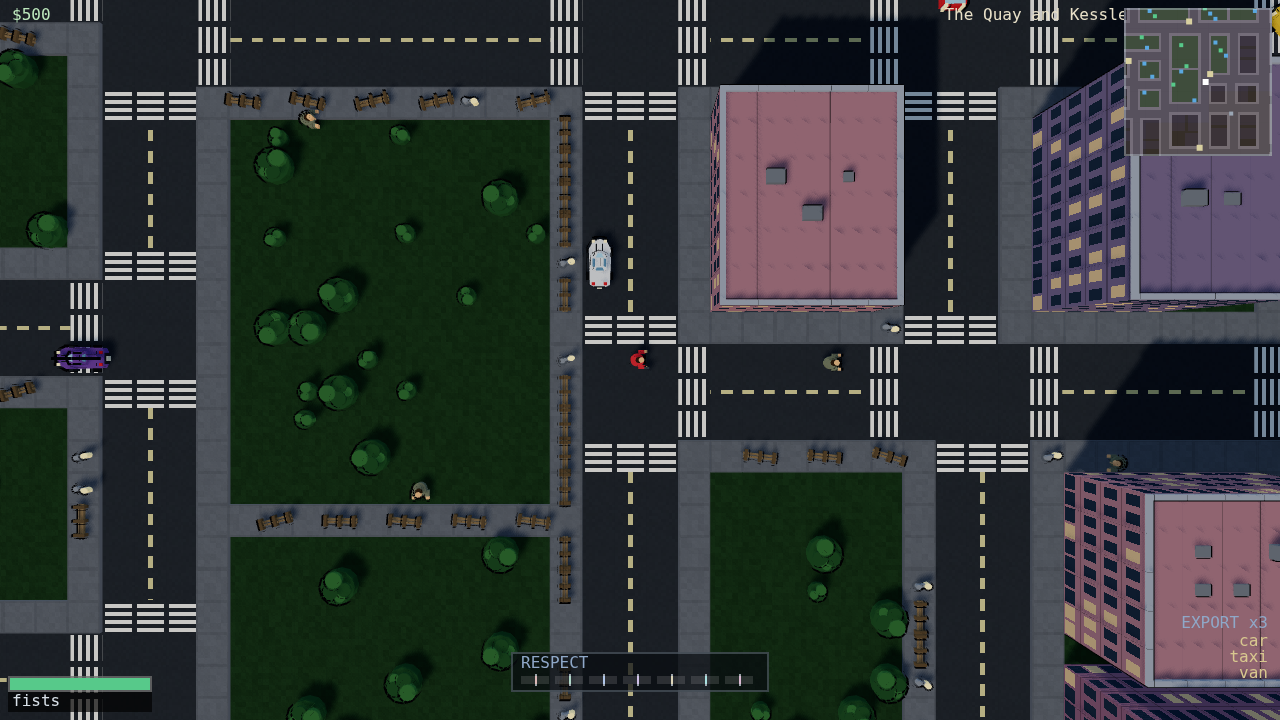
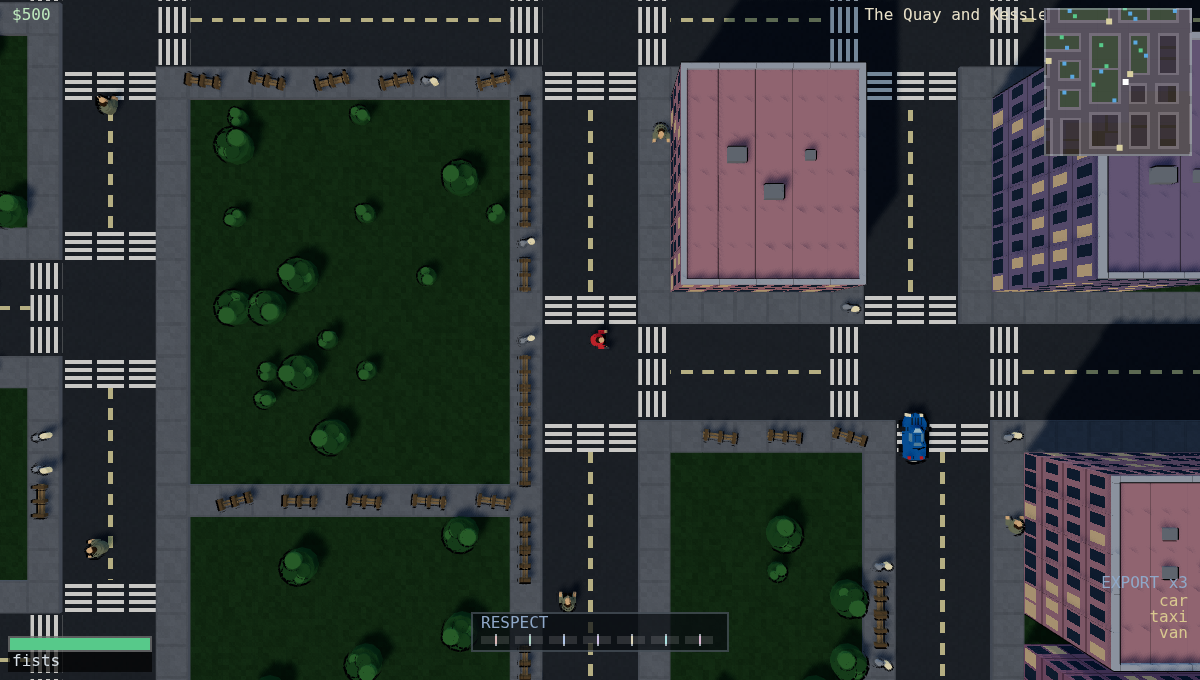
Make 3D the default renderer
`?render=2d` is the way back to Canvas 2D; everything else about the client
is shared between the two, so only the world layer differs.

The caveat I raised before flipping this stands, and 3D.md now records it as
an open risk rather than a resolved one: the frame cost of the 3D path has
never been measured on real hardware. Every figure quoted for it comes off a
box with no GPU, where WebGL runs on SwiftShader at about one frame a second.
Draw counts and triangle counts travel between machines; frame rate does not.
The first person to open this on a GPU learns something nobody here knows.

Two things make that recoverable rather than reckless. The 2D path is
untouched and measured — 60 fps, p50 4.5ms, verified alongside this change —
so the fallback is real. And the swap is one line, so reverting costs nothing.

One cost that IS measured: the main bundle goes 179 KB -> 799 KB (219 KB
gzipped), because three.js now lands in the default entry instead of a page
nobody loaded by accident. A dynamic import would recover that if first paint
starts to matter.

Gates: 715 tests green, 6 bots 0 desyncs, host parity exact on seeds 7 and 42,
client typechecks, production build clean.

Claude-Session: https://claude.ai/code/session_014F4R93RD4teY4z5PdxMpqN

diff --git a/client/src/main.ts b/client/src/main.ts
@@ -152,14 +152,20 @@ function playerName(): string {
 }
 
 /**
- * `?render=3d` draws the world with three.js instead of Canvas 2D.
+ * Which renderer draws the world. **3D is the default**; `?render=2d` is the
+ * way back to Canvas 2D.
  *
- * The HUD, the minimap, the overlay, input and — crucially — client-side
- * prediction all stay exactly as they are: only the world layer swaps. That
- * is the whole reason to wire it in here rather than leave it on its own page,
- * where it had none of them.
+ * Only the world layer swaps either way. The HUD, the minimap, the debug
+ * overlay, input, audio and — crucially — client-side prediction with
+ * rewind/replay reconciliation are shared, which is why this lives in
+ * `main.ts` rather than on a page of its own.
+ *
+ * The 2D path is not deprecated and is not going away. It is the measured
+ * one — 60 fps, p50 4.5 ms — it needs no GPU, and it remains the fallback for
+ * a machine that cannot afford WebGL or a driver that will not give it one.
+ * `?render=2d` should keep working for as long as that is true.
  */
-const render3d = new URLSearchParams(location.search).get('render') === '3d';
+const render3d = new URLSearchParams(location.search).get('render') !== '2d';
 const canvas = document.getElementById('game') as HTMLCanvasElement;
 // In 3D the HUD canvas has to be see-through — both in its drawing context
 // and in its CSS background, which is opaque black for the 2D renderer.

diff --git a/README.md b/README.md
@@ -3,7 +3,8 @@
 Browser-based, real-time multiplayer, top-down open-city sandbox — original
 work in the genre of early top-down open-city action games. TypeScript
 throughout; deterministic 30 Hz simulation shared between an authoritative
-Node server and a Canvas-2D client.
+Node server and a browser client that renders the world with three.js
+(`?render=2d` falls back to the original Canvas-2D renderer).
 
 ## Run it
 
@@ -25,7 +26,7 @@ the art on whole pixels.
 | `?night=0..1` | force the hour, 0 midday to 1 midnight. A day is 24 minutes long, so this is the only practical way to look at the night lighting |
 | `?lights=cheap` | keep the grade and the lamps, drop the shadow casting and the bloom |
 | `?lights=off` | no lighting pass at all |
-| `?render=3d` | draw the world with three.js instead of Canvas 2D. The HUD, minimap, overlay, input and client-side prediction are unchanged — only the world layer swaps |
+| `?render=2d` | draw the world with the original Canvas 2D renderer. **3D is the default**; only the world layer differs — HUD, minimap, overlay, input and client-side prediction are shared. Keep this if WebGL is unavailable or slow |
 | `?extrude=1` | true parallax building extrusion — roofs displaced away from the screen centre in proportion to height, drawn per frame instead of baked (SHIP.md U2). Off by default while the flat-centre problem is open |
 
 ### Controls
@@ -127,7 +128,9 @@ re-simulating to identical hashes is the desync alarm.
 - `server/` — authoritative 30 Hz session over `ws`; economy (append-only
   ledger, shops, scrypt accounts) lives here, outside the sim, and touches it
   only through recorded SimCommands.
-- `client/` — Vite + Canvas 2D. Rendering and input only; predicts the local
+- `client/` — Vite. Rendering and input only; the world is drawn with
+  three.js by default and with Canvas 2D under `?render=2d`, and both share
+  the HUD, the input path and the predictor. predicts the local
   player with rewind/replay reconciliation, interpolates everything else. The
   world view is sized to the browser window (480×270 world pixels at 1080p, up
   to a 700×400 ceiling) and drawn into a backing store twice that size, and the

diff --git a/3D.md b/3D.md
@@ -385,12 +385,26 @@ Aim survives the perspective projection because the camera hangs directly over
 the player: the mapping is radially symmetric about screen centre, which is
 the only property `InputSource`'s angle depends on.
 
-Still 2D by default. Flipping it is one line, and the reason it has not been
-flipped is that this box has no GPU — the frame cost of the 3D path has never
-been measured on real hardware, and defaulting a renderer nobody has
-benchmarked onto a branch that auto-deploys is the wrong order to do things
-in. `?render=2d` would be the escape hatch either way, and the 2D path is
-untouched: 60 fps, p50 4.5 ms, measured alongside this change.
+**3D is now the default**, on the owner's call after the caveat below was put
+to them. `?render=2d` is the way back.
+
+The caveat stands and should be read as an open risk rather than a closed
+one: **the frame cost of the 3D path has never been measured on real
+hardware.** Every figure quoted for it comes off a box with no GPU, where
+WebGL runs on SwiftShader at about one frame a second. Draw counts and
+triangle counts are properties of how the scene is built and travel fine; the
+frame rate does not travel at all. The first person to open it on a machine
+with a GPU learns something nobody here knows.
+
+Two things make that acceptable rather than reckless. The 2D path is
+untouched and measured — 60 fps, p50 4.5 ms — so `?render=2d` is a real
+fallback rather than a theoretical one. And the swap is one line, so reverting
+the default costs nothing if the number comes back bad.
+
+One cost that *is* measured: the main bundle goes from 179 KB to 799 KB
+(219 KB gzipped), because three.js now lands in the default entry instead of
+a page nobody loaded by accident. Worth a dynamic import if first paint
+matters more than it does today.
 
 The existing renderer is 6,528 lines and does considerably more than draw
 boxes: interpolation, prediction ghosts, the damage diagram, the minimap, the
